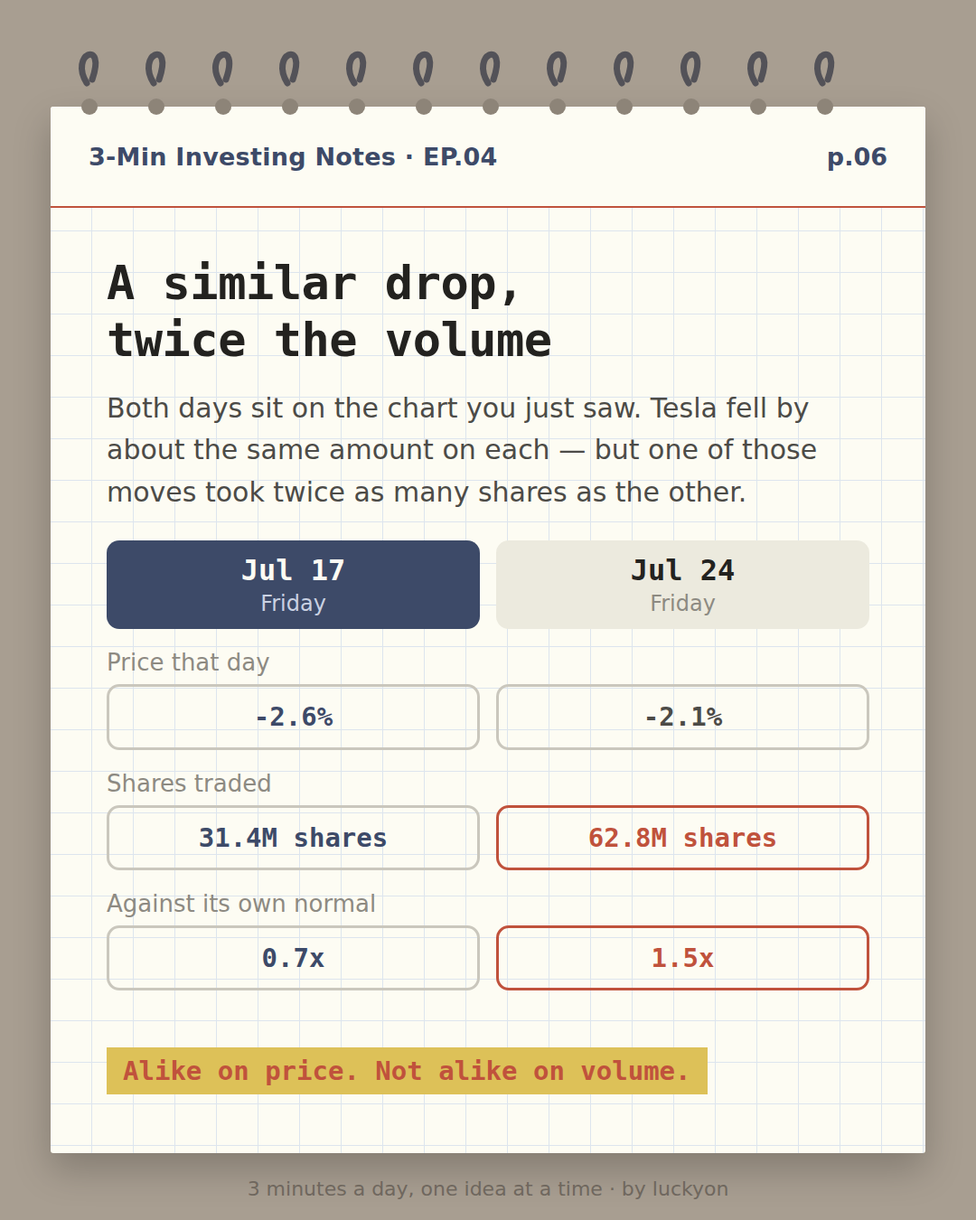
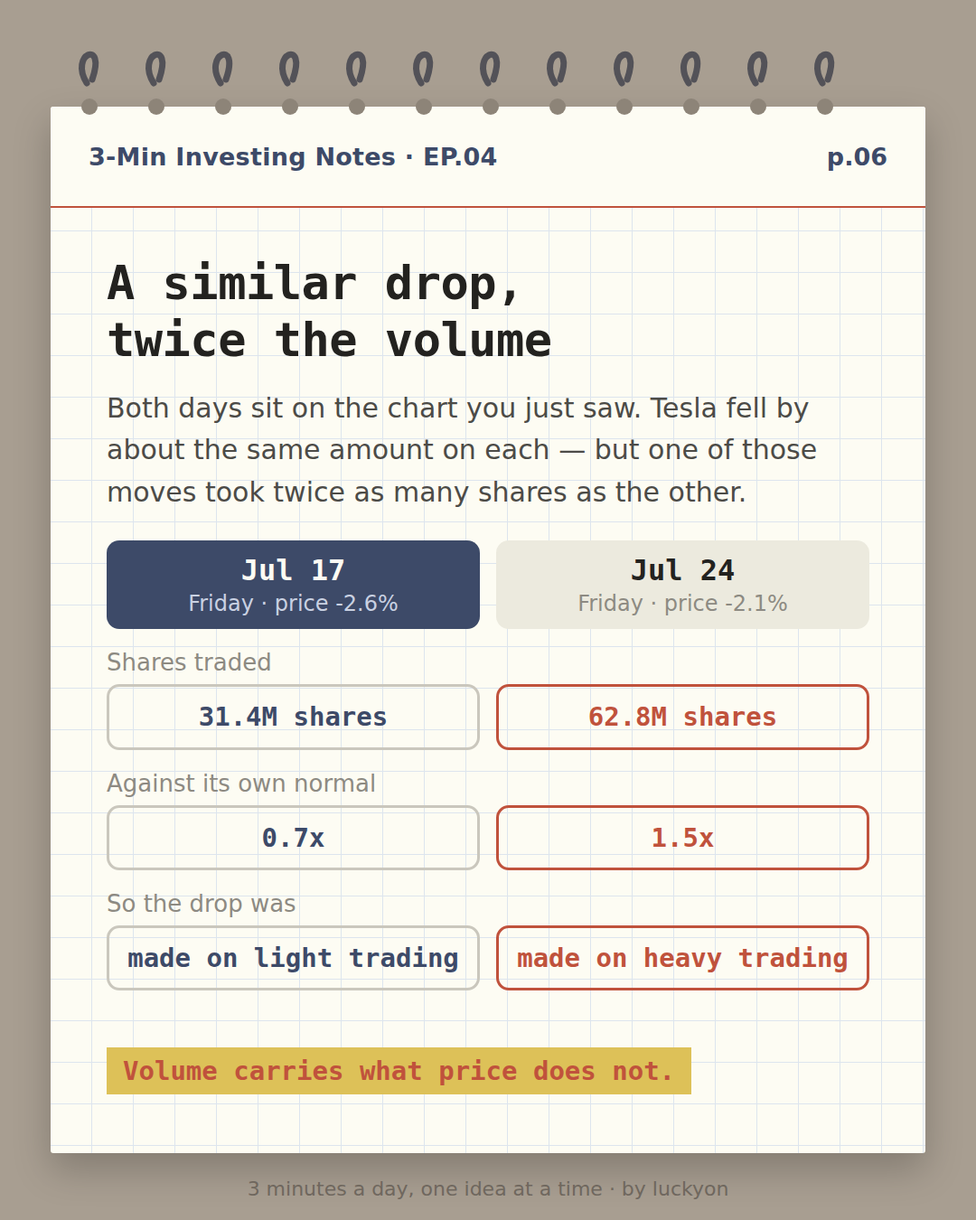
chart-notes: 2026-08-23-ep04 p.06 now says what the volume gap means
The card compared two days and stopped at "volume says something different",
which leaves the reader at "so what" — it never delivered why volume is worth
looking at. Adds an interpretation row that reads the numbers back in words
(1.3x -> a 3% made on heavy trading, 0.5x -> a 3% made on light trading) and
changes the closing to the payoff: price alone cannot tell these two days
apart, volume can.

Price change moved from a row into the column header, so the header now
carries what is the SAME about the two days and the rows carry what DIFFERS —
this also keeps the table at three rows, which is what fits above the closing.

Captions and alt text follow. fact_check records that the new row restates the
verified volume figures and makes no forecast.

Claude-Session: https://claude.ai/code/session_019rTp6MgSg1P327MVucBaSG

diff --git a/cards/chart-notes/2026-08-23-ep04/preview.html b/cards/chart-notes/2026-08-23-ep04/preview.html
@@ -56,7 +56,7 @@
 제출하면 다음 확인 루틴이 읽고 처리한 뒤, 결과를 카카오톡으로 알려드립니다.</p>
 
 <div class="fact"><b>시세 검증 기록</b>
-<div>KO — ① p.05 차트 — 삼성전자(005930.KS) 2026-07-13~07-31 14거래일 OHLC·거래량 전량을 PlayMCP UsStockInfo 일봉에서 그대로 옮겼다. 급증일 7/29(수) 시가 226,500 / 고가 234,000 / 저가 189,200 / 종가 208,500, 거래량 65,555,523주. ② 20거래일 평균 — 7/29 직전 20거래일(6/30~7/28) 거래량 합 564,693,346주 ÷ 20 = 28,234,667주. 65,555,523 ÷ 28,234,667 = 2.32배(p.04·p.05 의 '2.3배'). ③ p.05 가 말하는 «그날 무슨 일» — 네이버 뉴스로 확인했다. 머니투데이(2026-08-04) 「코스피는 지난달 28일과 29일 연일 서킷브레이커를 울리며 16.17% 급락」, 미디어오늘(2026-07-30) 「지난 28일과 29일 이틀에 걸쳐 코스피 지수가 17% 가까이 급락… 인공지능(AI) 투자 지속성에 대한 우려」, 연합뉴스·파이낸셜뉴스 등 다수가 「7월 29일 장중 18만9200원」을 보도했고 이는 일봉 저가와 일치한다. 7/29 종가 208,500원은 7/28 종가 220,000원 대비 -5.23%(p.07 의 '5.2%'). ④ p.06 — 삼성전자의 실제 두 거래일을 견준 표다(2026-08-23 이슈 #24 수정으로 교체). 같은 일봉 원본을 다시 조회해 확인했으며 날짜는 모두 KST 기준이다. 7/14(화) 종가 263,000원은 직전 거래일 7/13 종가 254,500원 대비 +3.340%(카드 표기 +3.3%), 거래량 40,086,496주(4,009만 주). 7/23(목) 종가 270,000원은 직전 거래일 7/22 종가 260,500원 대비 +3.647%(+3.6%), 거래량 16,011,816주(1,601만 주). 40,086,496 ÷ 16,011,816 = 2.504배 — 제목의 «2.5배». «평소와 견주면» 은 각 날의 직전 20거래일로 따로 계산했다: 7/14 은 6/16~7/13 합 632,594,712 ÷ 20 = 31,629,736주이고 40,086,496 ÷ 31,629,736 = 1.27배(1.3배), 7/23 은 6/24~7/22 합 616,709,872 ÷ 20 = 30,835,494주이고 16,011,816 ÷ 30,835,494 = 0.52배(0.5배). 두 날 모두 p.05 차트(7/13~7/31) 안에 실제로 들어 있다 — `bars_ko` 인덱스 1·7 이며 종가·거래량이 이 표와 일치한다. p.05 의 x축 라벨도 이 두 날(7/14·7/23)에 맞춰 다시 찍었다 — 「앞 장 차트에 둘 다 있다」를 독자가 실제로 확인할 수 있어야 하기 때문이다. 이 카드는 두 날의 원인을 서술하지 않으므로 사건 주장을 담지 않으며, 어느 쪽도 급증일(2배 이상)이 아니다. **이전 판(거래량 vs 거래대금 비교표)은 「증권앱이 둘을 나란히 보여준다」고 적었는데, 차트의 거래량 패널 옆에 거래대금이 함께 표시되지는 않는다는 지적을 받아 카드째 걷어냈다(이슈 #24).** ⑤ p.07 의 '1주 체결 = 거래량 1주' 는 네이버 지식백과 '거래량'(매경 시사용어) 의 «매도 1백주, 매입 1백주인 경우 거래량은 1백주가 된다» 를 근거로 한다. ⑥ p.02 는 실제 시세가 아닌 도식이다 — 숫자·종목·날짜를 넣지 않았다. ⑦ 날짜 오프셋: 이 도구의 KRX 일봉은 15:00Z 로 찍히며 실제 거래일은 KST 다음 날이다. 2026-07-27T15:00Z 봉(종가 220,000원)이 언론이 보도한 «7월 28일 삼성전자 13.39% 하락»(254,000 → 220,000 = -13.39%)과 맞아떨어지는 것으로, 또 제헌절 7/17(금)·광복절 대체공휴일 8/17(월) 자리가 정확히 비어 있는 것으로 교차검증했다.</div><div>EN — (1) p.05 chart — Tesla (TSLA) 2026-07-14 to 07-31, all 14 sessions of OHLC and volume copied straight from the PlayMCP UsStockInfo daily pull. Spike day Thu Jul 23: open 341.00 / high 342.11 / low 315.74 / close 319.69 on 115,606,400 shares. (2) 20-session average — the 20 sessions before Jul 23 (Jun 24 – Jul 22) total 779,189,600 shares ÷ 20 = 38,959,480. 115,606,400 ÷ 38,959,480 = 2.97x, shown as 3.0x on p.04 and p.05. (3) What p.05 says happened that day — Tesla released Q2 results after the close on Wednesday, July 22, and the stock fell the next session. Yonhap and SBS (2026-07-24): 'Tesla closed down 14.5% at $319.69… deliveries were a record 480,126 vehicles… profit came in far below the market forecast.' Newspim (2026-07-24) reports the walked-back robotaxi timeline from the same call. Close 319.69 against the Jul 22 close of 374.01 = -14.52% (p.07's '14.5%'). (4) p.06 — a table comparing two real Tesla sessions (replaced per issue #24 on 2026-08-23), re-pulled from the same daily series to check. Fri Jul 17: close 380.84 against the Jul 16 close of 391.06 = -2.613%, shown as -2.6%, on 31,394,600 shares. Fri Jul 24: close 313.03 against the Jul 23 close of 319.69 = -2.083%, shown as -2.1%, on 62,760,000 shares. 62,760,000 ÷ 31,394,600 = 2.00 — the 'twice' in the title. The 'own normal' row uses each day's own trailing 20 sessions: Jun 17 – Jul 16 totals 850,670,800 ÷ 20 = 42,533,540, so 31,394,600 ÷ 42,533,540 = 0.74x, shown as 0.7x; Jun 25 – Jul 23 totals 857,714,600 ÷ 20 = 42,885,730, so 62,760,000 ÷ 42,885,730 = 1.46x, shown as 1.5x. Both sessions sit on the p.05 chart (Jul 14–31) — `bars_en` indexes 3 and 8, with matching closes and volumes, and p.05's x-axis labels were re-pointed at those two days so the claim can actually be checked by a reader. The card asserts no cause for either day, and neither is a spike. The previous version of this card compared volume with turnover and claimed a broker app shows the two side by side; that claim was wrong for the chart's volume panel and the whole card was pulled (issue #24). (5) p.07's 'one share traded = one share of volume' follows the Naver Encyclopedia entry for trading volume: «if 100 shares are sold and 100 bought, volume is 100 shares». (6) p.02 is a schematic, not real data — no ticker, date, or figure appears on it. (7) US bars carry 04:00Z stamps and need no date shift; Fri Jul 3 (Independence Day observed) is correctly absent from the pull.</div></div>
+<div>KO — ① p.05 차트 — 삼성전자(005930.KS) 2026-07-13~07-31 14거래일 OHLC·거래량 전량을 PlayMCP UsStockInfo 일봉에서 그대로 옮겼다. 급증일 7/29(수) 시가 226,500 / 고가 234,000 / 저가 189,200 / 종가 208,500, 거래량 65,555,523주. ② 20거래일 평균 — 7/29 직전 20거래일(6/30~7/28) 거래량 합 564,693,346주 ÷ 20 = 28,234,667주. 65,555,523 ÷ 28,234,667 = 2.32배(p.04·p.05 의 '2.3배'). ③ p.05 가 말하는 «그날 무슨 일» — 네이버 뉴스로 확인했다. 머니투데이(2026-08-04) 「코스피는 지난달 28일과 29일 연일 서킷브레이커를 울리며 16.17% 급락」, 미디어오늘(2026-07-30) 「지난 28일과 29일 이틀에 걸쳐 코스피 지수가 17% 가까이 급락… 인공지능(AI) 투자 지속성에 대한 우려」, 연합뉴스·파이낸셜뉴스 등 다수가 「7월 29일 장중 18만9200원」을 보도했고 이는 일봉 저가와 일치한다. 7/29 종가 208,500원은 7/28 종가 220,000원 대비 -5.23%(p.07 의 '5.2%'). ④ p.06 — 삼성전자의 실제 두 거래일을 견준 표다(2026-08-23 이슈 #24 수정으로 교체). 같은 일봉 원본을 다시 조회해 확인했으며 날짜는 모두 KST 기준이다. 7/14(화) 종가 263,000원은 직전 거래일 7/13 종가 254,500원 대비 +3.340%(카드 표기 +3.3%), 거래량 40,086,496주(4,009만 주). 7/23(목) 종가 270,000원은 직전 거래일 7/22 종가 260,500원 대비 +3.647%(+3.6%), 거래량 16,011,816주(1,601만 주). 40,086,496 ÷ 16,011,816 = 2.504배 — 제목의 «2.5배». «평소와 견주면» 은 각 날의 직전 20거래일로 따로 계산했다: 7/14 은 6/16~7/13 합 632,594,712 ÷ 20 = 31,629,736주이고 40,086,496 ÷ 31,629,736 = 1.27배(1.3배), 7/23 은 6/24~7/22 합 616,709,872 ÷ 20 = 30,835,494주이고 16,011,816 ÷ 30,835,494 = 0.52배(0.5배). 두 날 모두 p.05 차트(7/13~7/31) 안에 실제로 들어 있다 — `bars_ko` 인덱스 1·7 이며 종가·거래량이 이 표와 일치한다. p.05 의 x축 라벨도 이 두 날(7/14·7/23)에 맞춰 다시 찍었다 — 「앞 장 차트에 둘 다 있다」를 독자가 실제로 확인할 수 있어야 하기 때문이다. 이 카드는 두 날의 원인을 서술하지 않으므로 사건 주장을 담지 않으며, 어느 쪽도 급증일(2배 이상)이 아니다. 마지막 «그래서 이 3%는» 행은 앞 두 행의 수치를 말로 옮긴 것뿐이다(1.3배 → «많이 거래되며 오른», 0.5배 → «적게 거래되고 오른»). 앞으로 어떻게 된다는 예측이나 매매 판단은 담지 않는다. **이전 판(거래량 vs 거래대금 비교표)은 「증권앱이 둘을 나란히 보여준다」고 적었는데, 차트의 거래량 패널 옆에 거래대금이 함께 표시되지는 않는다는 지적을 받아 카드째 걷어냈다(이슈 #24).** ⑤ p.07 의 '1주 체결 = 거래량 1주' 는 네이버 지식백과 '거래량'(매경 시사용어) 의 «매도 1백주, 매입 1백주인 경우 거래량은 1백주가 된다» 를 근거로 한다. ⑥ p.02 는 실제 시세가 아닌 도식이다 — 숫자·종목·날짜를 넣지 않았다. ⑦ 날짜 오프셋: 이 도구의 KRX 일봉은 15:00Z 로 찍히며 실제 거래일은 KST 다음 날이다. 2026-07-27T15:00Z 봉(종가 220,000원)이 언론이 보도한 «7월 28일 삼성전자 13.39% 하락»(254,000 → 220,000 = -13.39%)과 맞아떨어지는 것으로, 또 제헌절 7/17(금)·광복절 대체공휴일 8/17(월) 자리가 정확히 비어 있는 것으로 교차검증했다.</div><div>EN — (1) p.05 chart — Tesla (TSLA) 2026-07-14 to 07-31, all 14 sessions of OHLC and volume copied straight from the PlayMCP UsStockInfo daily pull. Spike day Thu Jul 23: open 341.00 / high 342.11 / low 315.74 / close 319.69 on 115,606,400 shares. (2) 20-session average — the 20 sessions before Jul 23 (Jun 24 – Jul 22) total 779,189,600 shares ÷ 20 = 38,959,480. 115,606,400 ÷ 38,959,480 = 2.97x, shown as 3.0x on p.04 and p.05. (3) What p.05 says happened that day — Tesla released Q2 results after the close on Wednesday, July 22, and the stock fell the next session. Yonhap and SBS (2026-07-24): 'Tesla closed down 14.5% at $319.69… deliveries were a record 480,126 vehicles… profit came in far below the market forecast.' Newspim (2026-07-24) reports the walked-back robotaxi timeline from the same call. Close 319.69 against the Jul 22 close of 374.01 = -14.52% (p.07's '14.5%'). (4) p.06 — a table comparing two real Tesla sessions (replaced per issue #24 on 2026-08-23), re-pulled from the same daily series to check. Fri Jul 17: close 380.84 against the Jul 16 close of 391.06 = -2.613%, shown as -2.6%, on 31,394,600 shares. Fri Jul 24: close 313.03 against the Jul 23 close of 319.69 = -2.083%, shown as -2.1%, on 62,760,000 shares. 62,760,000 ÷ 31,394,600 = 2.00 — the 'twice' in the title. The 'own normal' row uses each day's own trailing 20 sessions: Jun 17 – Jul 16 totals 850,670,800 ÷ 20 = 42,533,540, so 31,394,600 ÷ 42,533,540 = 0.74x, shown as 0.7x; Jun 25 – Jul 23 totals 857,714,600 ÷ 20 = 42,885,730, so 62,760,000 ÷ 42,885,730 = 1.46x, shown as 1.5x. Both sessions sit on the p.05 chart (Jul 14–31) — `bars_en` indexes 3 and 8, with matching closes and volumes, and p.05's x-axis labels were re-pointed at those two days so the claim can actually be checked by a reader. The card asserts no cause for either day, and neither is a spike. The closing 'So the drop was' row only puts the two rows above it into words (0.7x → light trading, 1.5x → heavy trading); it forecasts nothing and recommends nothing. The previous version of this card compared volume with turnover and claimed a broker app shows the two side by side; that claim was wrong for the chart's volume panel and the whole card was pulled (issue #24). (5) p.07's 'one share traded = one share of volume' follows the Naver Encyclopedia entry for trading volume: «if 100 shares are sold and 100 bought, volume is 100 shares». (6) p.02 is a schematic, not real data — no ticker, date, or figure appears on it. (7) US bars carry 04:00Z stamps and need no date shift; Fri Jul 3 (Independence Day observed) is correctly absent from the pull.</div></div>
 
 
     <h2>🇰🇷 한국어 — 8장</h2>
@@ -82,8 +82,8 @@
       <figcaption><b>p.05</b> 실제 차트 — 삼성전자 2026년 7월 13일부터 31일까지 14거래일. 위 칸은 캔들, 아래 칸은 거래량 막대이고 20거래일 평균을 나타내는 가로 점선이 그어져 있다. 7월 29일 막대만 짙은 파랑으로 높이 솟아 검은 테두리가 둘려 있고 평소의 2.3배라는 붉은 주석이 붙어 있다. 그날은 AI 투자 지속 여부를 둘러싼 우려로 반도체주가 이틀째 무너지며 코스피에 서킷브레이커가 걸린 날이었다는 설명이 함께 있다</figcaption>
     </figure>
     <figure>
-      <img src="ko/card6.png" alt="두 날 비교 표 — 앞 장 차트에 함께 나온 삼성전자의 7월 14일 화요일과 7월 23일 목요일을 나란히 놓았다. 주가는 각각 3.3%와 3.6% 올라 오른 폭이 거의 같지만, 그날 거래량은 4,009만 주와 1,601만 주로 2.5배 차이가 나고, 그 종목 평소와 견주면 1.3배와 0.5배다. 가격만 보면 닮은 날이지만 거래량은 다르게 말한다는 한 줄로 끝난다" loading="lazy">
-      <figcaption><b>p.06</b> 두 날 비교 표 — 앞 장 차트에 함께 나온 삼성전자의 7월 14일 화요일과 7월 23일 목요일을 나란히 놓았다. 주가는 각각 3.3%와 3.6% 올라 오른 폭이 거의 같지만, 그날 거래량은 4,009만 주와 1,601만 주로 2.5배 차이가 나고, 그 종목 평소와 견주면 1.3배와 0.5배다. 가격만 보면 닮은 날이지만 거래량은 다르게 말한다는 한 줄로 끝난다</figcaption>
+      <img src="ko/card6.png" alt="두 날 비교 표 — 앞 장 차트에 함께 나온 삼성전자의 7월 14일 화요일과 7월 23일 목요일을 나란히 놓았다. 주가는 각각 3.3%와 3.6% 올라 오른 폭이 거의 같지만, 그날 거래량은 4,009만 주와 1,601만 주로 2.5배 차이가 나고, 그 종목 평소와 견주면 1.3배와 0.5배다. 마지막 줄은 그래서 앞의 3%는 «많이 거래되며 오른 3%», 뒤의 3%는 «적게 거래되고 오른 3%» 라고 풀어 준다. 가격에 없는 정보가 거래량에 있다는 한 줄로 끝난다" loading="lazy">
+      <figcaption><b>p.06</b> 두 날 비교 표 — 앞 장 차트에 함께 나온 삼성전자의 7월 14일 화요일과 7월 23일 목요일을 나란히 놓았다. 주가는 각각 3.3%와 3.6% 올라 오른 폭이 거의 같지만, 그날 거래량은 4,009만 주와 1,601만 주로 2.5배 차이가 나고, 그 종목 평소와 견주면 1.3배와 0.5배다. 마지막 줄은 그래서 앞의 3%는 «많이 거래되며 오른 3%», 뒤의 3%는 «적게 거래되고 오른 3%» 라고 풀어 준다. 가격에 없는 정보가 거래량에 있다는 한 줄로 끝난다</figcaption>
     </figure>
     <figure>
       <img src="ko/card7.png" alt="흔한 오해 세 가지 — 거래량이 늘면 산 사람이 많다는 오해, 급증을 호재로 보는 것, 종목끼리 주식 수로 비교하는 것. 거래량은 방향을 알려주지 않는다는 경고가 붙어 있다" loading="lazy">
@@ -93,8 +93,8 @@
       <img src="ko/card8.png" alt="3줄 요약과 다음 편 예고 — 다음 편은 지지선과 저항선, 그리고 이 콘텐츠는 교육 목적이며 투자 권유가 아니라는 고지" loading="lazy">
       <figcaption><b>p.08</b> 3줄 요약과 다음 편 예고 — 다음 편은 지지선과 저항선, 그리고 이 콘텐츠는 교육 목적이며 투자 권유가 아니라는 고지</figcaption>
     </figure></div>
-    <h3>캡션 (888자)</h3>
-    <div class="cap">📊 투자 3분 노트 EP.04 — 거래량<br><br>가격 그래프 아래 칸에 줄지어 선 세로 막대, 거래량입니다. 그날 그 종목의 주식이 몇 주나 체결됐는지를 세워 놓은 것뿐입니다.<br><br>숫자 자체로는 많고 적음을 알 수 없습니다. 나눗셈 한 번이면 됩니다 — 오늘 거래량 ÷ 직전 20거래일 평균. 삼성전자는 2026년 7월 29일 6,556만 주가 거래됐는데, 직전 20거래일 평균은 2,823만 주였습니다. 평소의 2.3배입니다.<br><br>그날 무슨 일이 있었을까요. AI 투자가 계속될지 우려가 번지며 반도체주가 이틀째 무너졌고, 코스피에는 서킷브레이커가 걸렸습니다. 삼성전자는 장중 18만 9,200원까지 밀렸습니다. 거래량이 평소와 다르다는 건 '찾아볼 만한 날'이라는 신호입니다.<br><br>같은 차트 안의 다른 두 날을 견줘 보면 거래량이 왜 따로 붙어 있는지가 보입니다. 삼성전자는 7월 14일에 3.3%, 7월 23일에 3.6% 올랐습니다. 오른 폭은 거의 같습니다. 그런데 그날 오간 주식은 4,009만 주와 1,601만 주로 2.5배 차이였습니다. 각자의 평소와 견주면 1.3배와 0.5배입니다. 가격만 보면 닮은 두 날인데, 거래량은 전혀 다른 이야기를 합니다.<br><br>그리고 가장 많이 하는 오해 하나. 거래량이 늘었다고 산 사람이 많았던 게 아닙니다. 한 주가 체결되려면 사는 쪽과 파는 쪽이 둘 다 있어야 하니까요. 거래량은 방향이 아니라 '몇 주가 오갔나'를 말해 줍니다.<br><br>📌 저장해두고 차트 볼 때 꺼내보세요<br>👇 주식 시작한 친구 태그하기<br>(교육 목적 콘텐츠이며 투자 권유가 아닙니다)<br><br>다음 편은 '지지선과 저항선' — 차트의 천장과 바닥을 읽습니다.<br><br>#주식초보 #주식공부 #거래량 #거래대금 #주식차트보는법 #주식용어 #삼성전자 #코스피 #재테크 #투자공부 #luckyon브리핑</div>
+    <h3>캡션 (985자)</h3>
+    <div class="cap">📊 투자 3분 노트 EP.04 — 거래량<br><br>가격 그래프 아래 칸에 줄지어 선 세로 막대, 거래량입니다. 그날 그 종목의 주식이 몇 주나 체결됐는지를 세워 놓은 것뿐입니다.<br><br>숫자 자체로는 많고 적음을 알 수 없습니다. 나눗셈 한 번이면 됩니다 — 오늘 거래량 ÷ 직전 20거래일 평균. 삼성전자는 2026년 7월 29일 6,556만 주가 거래됐는데, 직전 20거래일 평균은 2,823만 주였습니다. 평소의 2.3배입니다.<br><br>그날 무슨 일이 있었을까요. AI 투자가 계속될지 우려가 번지며 반도체주가 이틀째 무너졌고, 코스피에는 서킷브레이커가 걸렸습니다. 삼성전자는 장중 18만 9,200원까지 밀렸습니다. 거래량이 평소와 다르다는 건 '찾아볼 만한 날'이라는 신호입니다.<br><br>같은 차트 안의 다른 두 날을 견줘 보면 거래량이 왜 따로 붙어 있는지가 보입니다. 삼성전자는 7월 14일에 3.3%, 7월 23일에 3.6% 올랐습니다. 오른 폭은 거의 같습니다. 그런데 그날 오간 주식은 4,009만 주와 1,601만 주로 2.5배 차이였습니다. 각자의 평소와 견주면 1.3배와 0.5배입니다. 앞의 3%는 평소보다 많은 주식이 오가며 만들어졌고, 뒤의 3%는 평소의 절반만 오가고도 그만큼 움직였습니다. 가격 차트만 봐서는 이 둘이 그냥 같은 날입니다 — 가격에 없는 정보가 거래량에 있습니다. 거래량을 따로 보는 이유가 이것입니다.<br><br>그리고 가장 많이 하는 오해 하나. 거래량이 늘었다고 산 사람이 많았던 게 아닙니다. 한 주가 체결되려면 사는 쪽과 파는 쪽이 둘 다 있어야 하니까요. 거래량은 방향이 아니라 '몇 주가 오갔나'를 말해 줍니다.<br><br>📌 저장해두고 차트 볼 때 꺼내보세요<br>👇 주식 시작한 친구 태그하기<br>(교육 목적 콘텐츠이며 투자 권유가 아닙니다)<br><br>다음 편은 '지지선과 저항선' — 차트의 천장과 바닥을 읽습니다.<br><br>#주식초보 #주식공부 #거래량 #거래대금 #주식차트보는법 #주식용어 #삼성전자 #코스피 #재테크 #투자공부 #luckyon브리핑</div>
 
     <h2>🇺🇸 English — 8장</h2>
     <div class="cards">
@@ -119,8 +119,8 @@
       <figcaption><b>p.05</b> Real chart — Tesla's 14 sessions from July 14 to 31, 2026, with candlesticks in the upper panel and volume bars below, crossed by a dashed line marking the 20-session average. The July 23 bar spikes in red, labelled 3.0x normal, and the card explains that Tesla's second-quarter results had landed the night before: a second-quarter delivery record but profit well short of forecasts</figcaption>
     </figure>
     <figure>
-      <img src="en/card6.png" alt="Two-day comparison table — Tesla's Friday July 17 and Friday July 24, both of them days that appear on the chart from the previous card. The stock fell 2.6% and 2.1%, close to the same move, yet volume was 31.4M shares against 62.8M shares, or 0.7x and 1.5x each day's own 20-session normal. The card closes on the line that the two days are alike on price but not on volume" loading="lazy">
-      <figcaption><b>p.06</b> Two-day comparison table — Tesla's Friday July 17 and Friday July 24, both of them days that appear on the chart from the previous card. The stock fell 2.6% and 2.1%, close to the same move, yet volume was 31.4M shares against 62.8M shares, or 0.7x and 1.5x each day's own 20-session normal. The card closes on the line that the two days are alike on price but not on volume</figcaption>
+      <img src="en/card6.png" alt="Two-day comparison table — Tesla's Friday July 17 and Friday July 24, both of them days that appear on the chart from the previous card. The stock fell 2.6% and 2.1%, close to the same move, yet volume was 31.4M shares against 62.8M shares, or 0.7x and 1.5x each day's own 20-session normal. A final row reads the numbers back: the first fall was made on light trading, the second on heavy trading. The card closes on the line that volume carries what price does not" loading="lazy">
+      <figcaption><b>p.06</b> Two-day comparison table — Tesla's Friday July 17 and Friday July 24, both of them days that appear on the chart from the previous card. The stock fell 2.6% and 2.1%, close to the same move, yet volume was 31.4M shares against 62.8M shares, or 0.7x and 1.5x each day's own 20-session normal. A final row reads the numbers back: the first fall was made on light trading, the second on heavy trading. The card closes on the line that volume carries what price does not</figcaption>
     </figure>
     <figure>
       <img src="en/card7.png" alt="Three common mistakes — believing more volume means more buyers, treating a spike as good news, and comparing different stocks by share count, with a warning that volume never gives direction" loading="lazy">
@@ -130,8 +130,8 @@
       <img src="en/card8.png" alt="Three-line recap, a teaser for the next episode on support and resistance, and a note that this is educational content and not investment advice" loading="lazy">
       <figcaption><b>p.08</b> Three-line recap, a teaser for the next episode on support and resistance, and a note that this is educational content and not investment advice</figcaption>
     </figure></div>
-    <h3>캡션 (1679자)</h3>
-    <div class="cap">Those vertical bars in the panel under the price chart are volume — simply how many shares changed hands that day.<br><br>The raw number tells you nothing on its own. One division fixes that: today's volume ÷ the 20-session average. Tesla traded 115.6M shares on Thursday, July 23, 2026, against a 39.0M average over the previous 20 sessions. That is 3.0 times its own normal.<br><br>So what happened that day? Tesla's second-quarter results had landed the night before — a second-quarter record of 480,126 deliveries, but profit far short of forecasts, and a robotaxi timeline the company walked back on the call. The stock closed down 14.5%. Volume that sits far from normal is a signal that the day is worth looking into.<br><br>Put two days from that same chart side by side and you can see why volume gets a panel of its own. Tesla fell 2.6% on Friday, July 17 and 2.1% on Friday, July 24 — close to the same move. The first one took 31.4M shares; the second took 62.8M, twice as many. Against each day's own 20-session normal, that is 0.7x and 1.5x. Alike on price, nothing alike on volume.<br><br>And the mistake almost everyone makes: rising volume does not mean buyers piled in. Every share traded needs a buyer and a seller, so the two sides always match. Volume never gives you direction — it tells you how many shares changed hands.<br><br>📌 Save it and pull it up when you chart<br>👇 Tag a friend who just started investing<br>(Educational content only — not investment advice)<br><br>Next up: support and resistance — reading the ceiling and the floor on a chart.<br><br>#investingbasics #stockmarket #tradingvolume #stockcharts #technicalanalysis #learntoinvest #tesla #stockmarketbasics #investing101 #luckyon</div>
+    <h3>캡션 (1849자)</h3>
+    <div class="cap">Those vertical bars in the panel under the price chart are volume — simply how many shares changed hands that day.<br><br>The raw number tells you nothing on its own. One division fixes that: today's volume ÷ the 20-session average. Tesla traded 115.6M shares on Thursday, July 23, 2026, against a 39.0M average over the previous 20 sessions. That is 3.0 times its own normal.<br><br>So what happened that day? Tesla's second-quarter results had landed the night before — a second-quarter record of 480,126 deliveries, but profit far short of forecasts, and a robotaxi timeline the company walked back on the call. The stock closed down 14.5%. Volume that sits far from normal is a signal that the day is worth looking into.<br><br>Put two days from that same chart side by side and you can see why volume gets a panel of its own. Tesla fell 2.6% on Friday, July 17 and 2.1% on Friday, July 24 — close to the same move. The first one took 31.4M shares; the second took 62.8M, twice as many. Against each day's own 20-session normal, that is 0.7x and 1.5x. So the first fall was made on light trading and the second on heavy trading. On the price chart alone those two days look the same — volume carries what price does not. That is the whole reason it gets a panel.<br><br>And the mistake almost everyone makes: rising volume does not mean buyers piled in. Every share traded needs a buyer and a seller, so the two sides always match. Volume never gives you direction — it tells you how many shares changed hands.<br><br>📌 Save it and pull it up when you chart<br>👇 Tag a friend who just started investing<br>(Educational content only — not investment advice)<br><br>Next up: support and resistance — reading the ceiling and the floor on a chart.<br><br>#investingbasics #stockmarket #tradingvolume #stockcharts #technicalanalysis #learntoinvest #tesla #stockmarketbasics #investing101 #luckyon</div>
 
 
 <div class="act">
